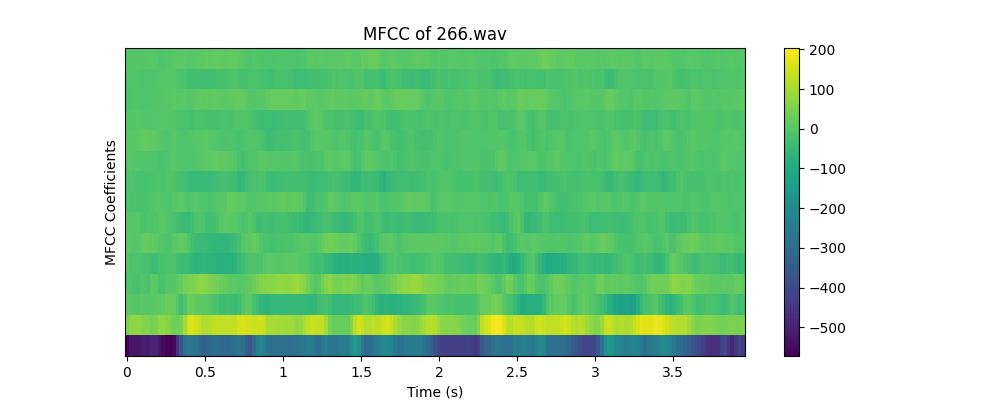
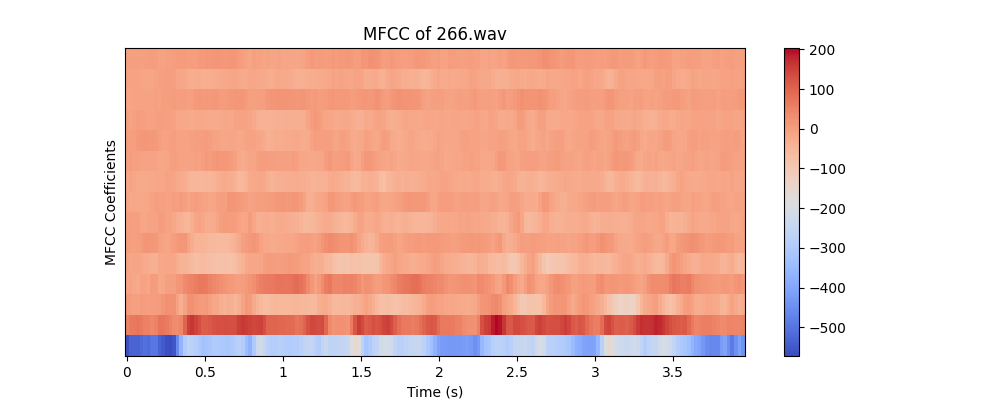
modified mfcc

diff --git a/Code/audio.py b/Code/audio.py
@@ -109,7 +109,7 @@ def save_spectrogram(audio_data, sampling_rate, file_name):
 def save_mfcc(audio_data, sampling_rate, file_name):
     mfccs = librosa.feature.mfcc(y=audio_data, sr=sampling_rate, n_mfcc=15)
     plt.figure(figsize=(10, 4))
-    librosa.display.specshow(mfccs, sr=sampling_rate, x_axis='time', cmap='viridis')  # Change the colormap here
+    librosa.display.specshow(mfccs, sr=sampling_rate, x_axis='time')
     plt.colorbar()
     plt.title(f"MFCC of {file_name}")
     plt.xlabel("Time (s)")
